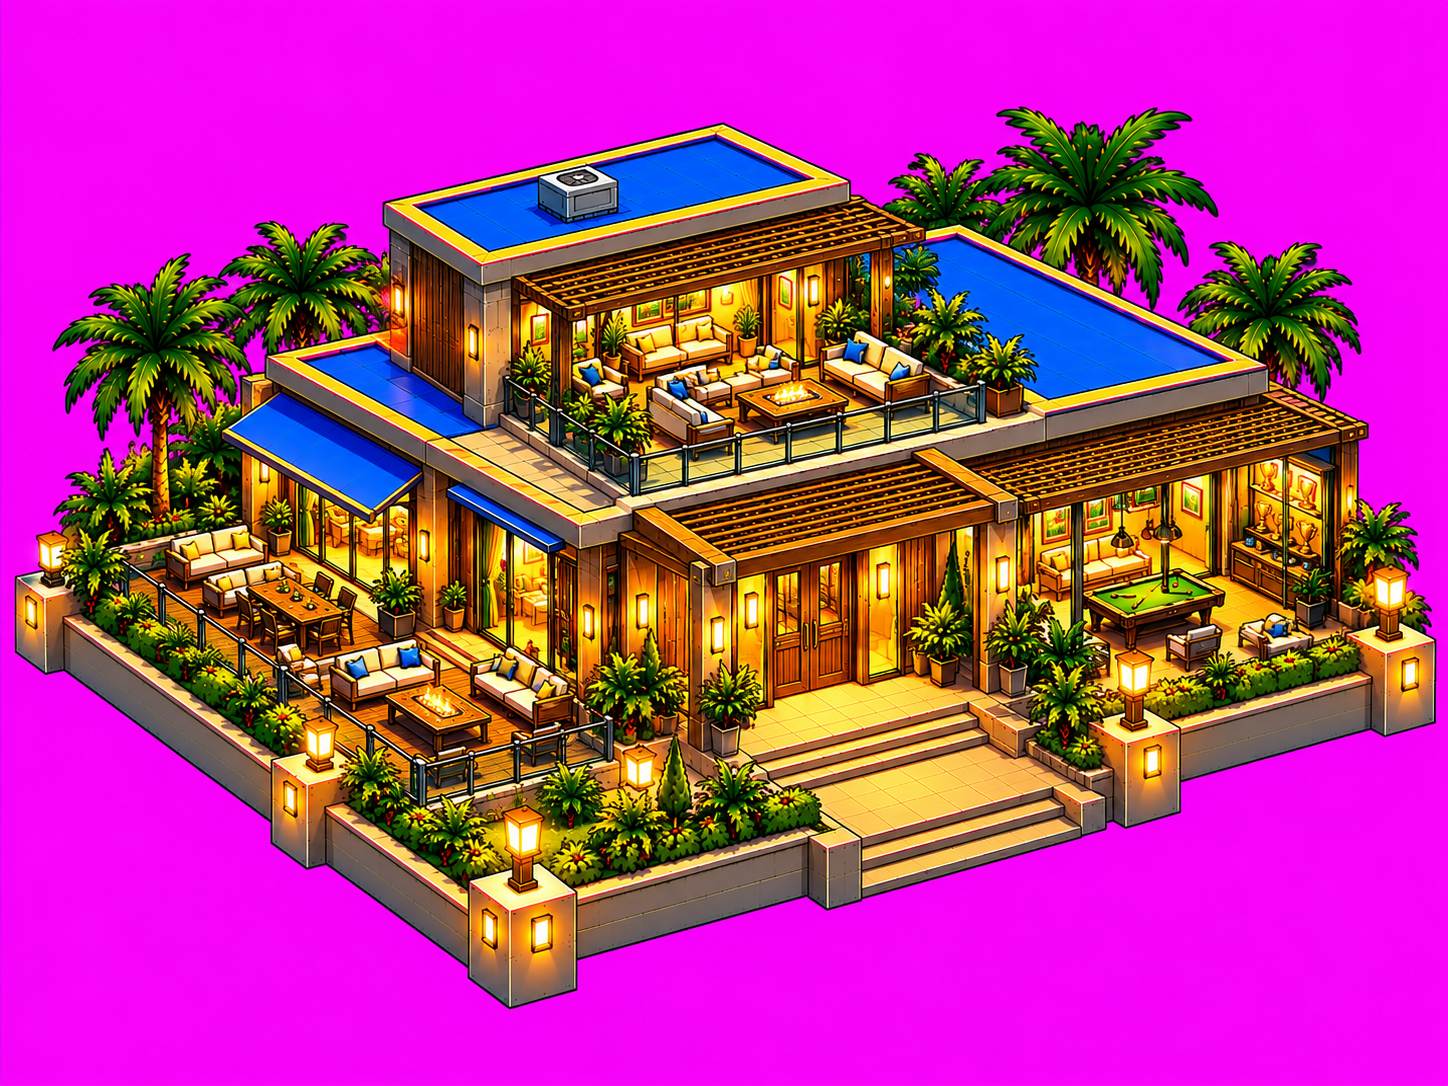
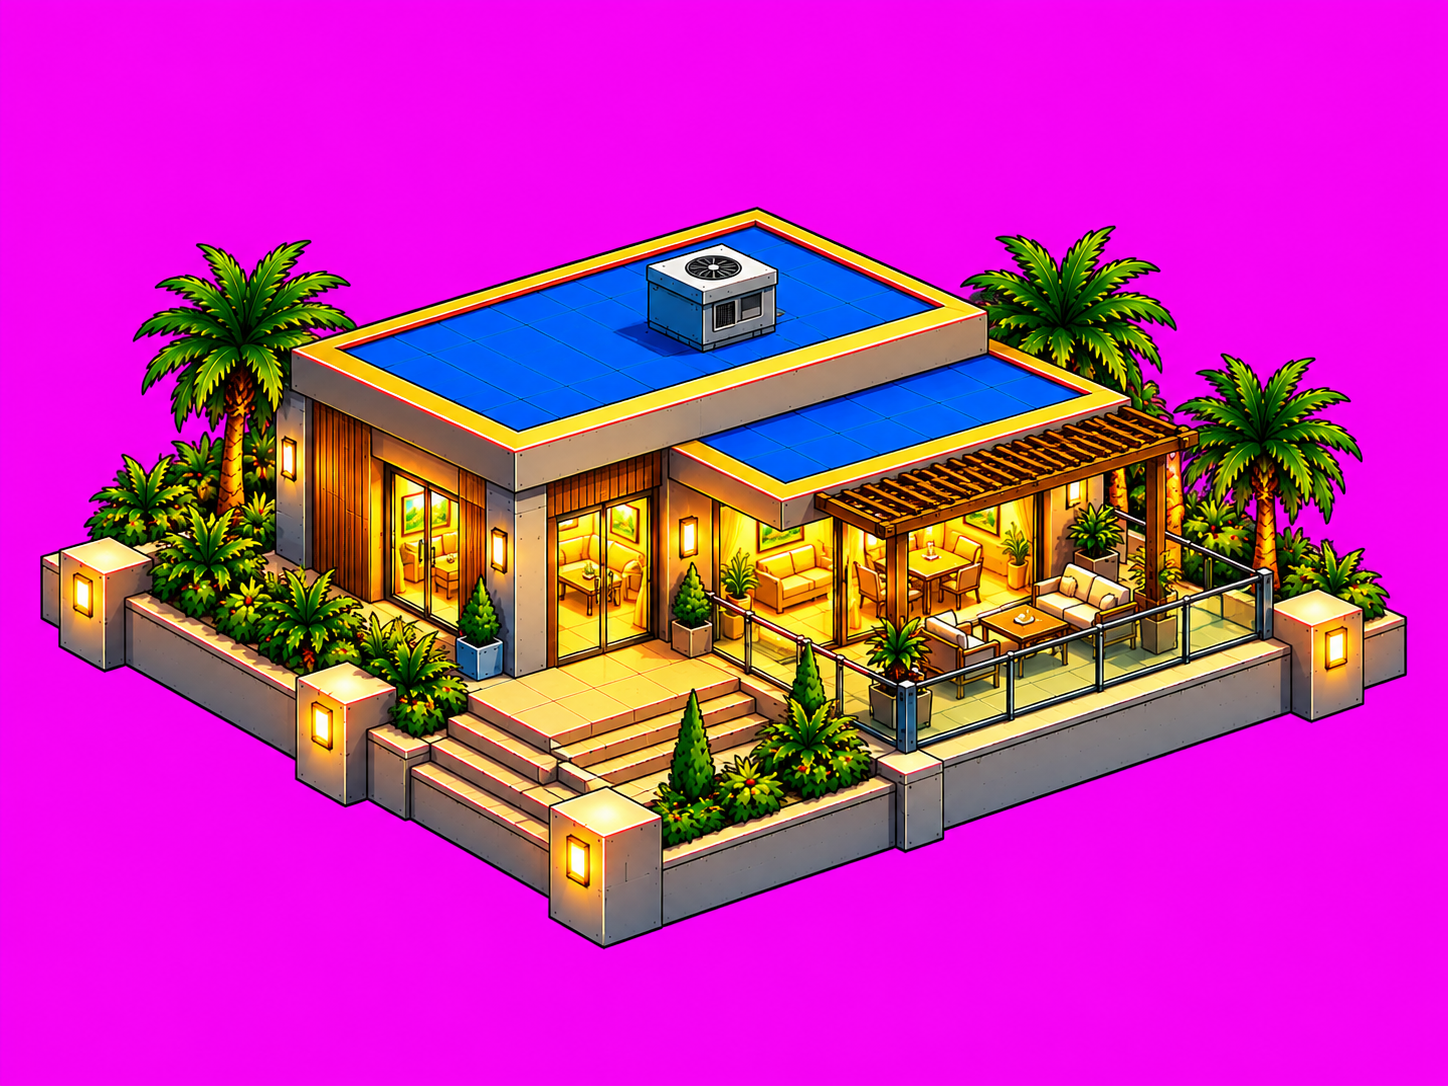
Club map: the level 1 clubhouse (levels 2 and 3 kept for later)
Claude-Session: https://claude.ai/code/session_01NK7tbrKg5PdA6fuyEUPXLd

diff --git a/js/clubmap.js b/js/clubmap.js
@@ -13,13 +13,13 @@ const SITES = {
   office:   { x: 0.224, y: 0.310, w: 0.316 },
   academy:  { x: 0.810, y: 0.364, w: 0.294 },
   medical:  { x: 0.234, y: 0.570, w: 0.320 },
-  clubhouse:{ x: 0.767, y: 0.582, w: 0.309 },
+  clubhouse:{ x: 0.766, y: 0.592, w: 0.309 },
   shop:     { x: 0.231, y: 0.719, w: 0.341 },
   merch:    { x: 0.750, y: 0.749, w: 0.313 },
 };
 const ORDER = Object.keys(SITES).sort((a, b) => SITES[a].y - SITES[b].y);   // far to near, the near ones painted over the far
 // where each building is in img/map/buildings.webp (and its tint in buildings-tint.webp): [row, height], all 1100 wide (tools/build_map.py)
-const ATLAS = {"stadium": [0, 647], "training": [647, 645], "office": [1292, 704], "apartment": [1996, 732], "medical": [2728, 651], "academy": [3379, 659], "clubhouse": [4038, 702], "shop": [4740, 709], "merch": [5449, 675]};
+const ATLAS = {"stadium": [0, 647], "training": [647, 645], "office": [1292, 704], "apartment": [1996, 732], "medical": [2728, 651], "academy": [3379, 659], "clubhouse": [4038, 601], "shop": [4639, 709], "merch": [5348, 675]};
 const AW = 1100;
 const rgbOf = h => [1, 3, 5].map(i => parseInt(h.slice(i, i + 2), 16));
 const load = src => new Promise((res, rej) => { const im = new Image(); im.onload = () => res(im); im.onerror = rej; im.src = src; });

diff --git a/tools/fit_map_sites.py b/tools/fit_map_sites.py
@@ -21,7 +21,7 @@ plots=[]
 for i,sl in enumerate(ndi.find_objects(lab),1):
     if (lab[sl]==i).sum()>40000:
         ys,xs=np.where(lab==i); plots.append(dict(cx=(xs.min()+xs.max())/2,cy=(ys.min()+ys.max())/2,x0=xs.min(),x1=xs.max(),y1=ys.max()))
-ATLAS={"stadium":[0,647],"training":[647,645],"office":[1292,704],"apartment":[1996,732],"medical":[2728,651],"academy":[3379,659],"clubhouse":[4038,702],"shop":[4740,709],"merch":[5449,675]}
+ATLAS={"stadium":[0,647],"training":[647,645],"office":[1292,704],"apartment":[1996,732],"medical":[2728,651],"academy":[3379,659],"clubhouse":[4038,601],"shop":[4639,709],"merch":[5348,675]}
 atlas=Image.open(R+'img/map/buildings.webp').convert('RGBA'); al=np.array(atlas)[...,3]
 def pick(fx,fy): return min(plots,key=lambda p:(p['cx']/W-fx)**2+(p['cy']/H-fy)**2)
 assign={'stadium':(.503,.444),'training':(.34,.195),'apartment':(.735,.245),'office':(.224,.334),'academy':(.812,.382),'medical':(.24,.584),'clubhouse':(.766,.594),'shop':(.239,.739),'merch':(.749,.757)}
